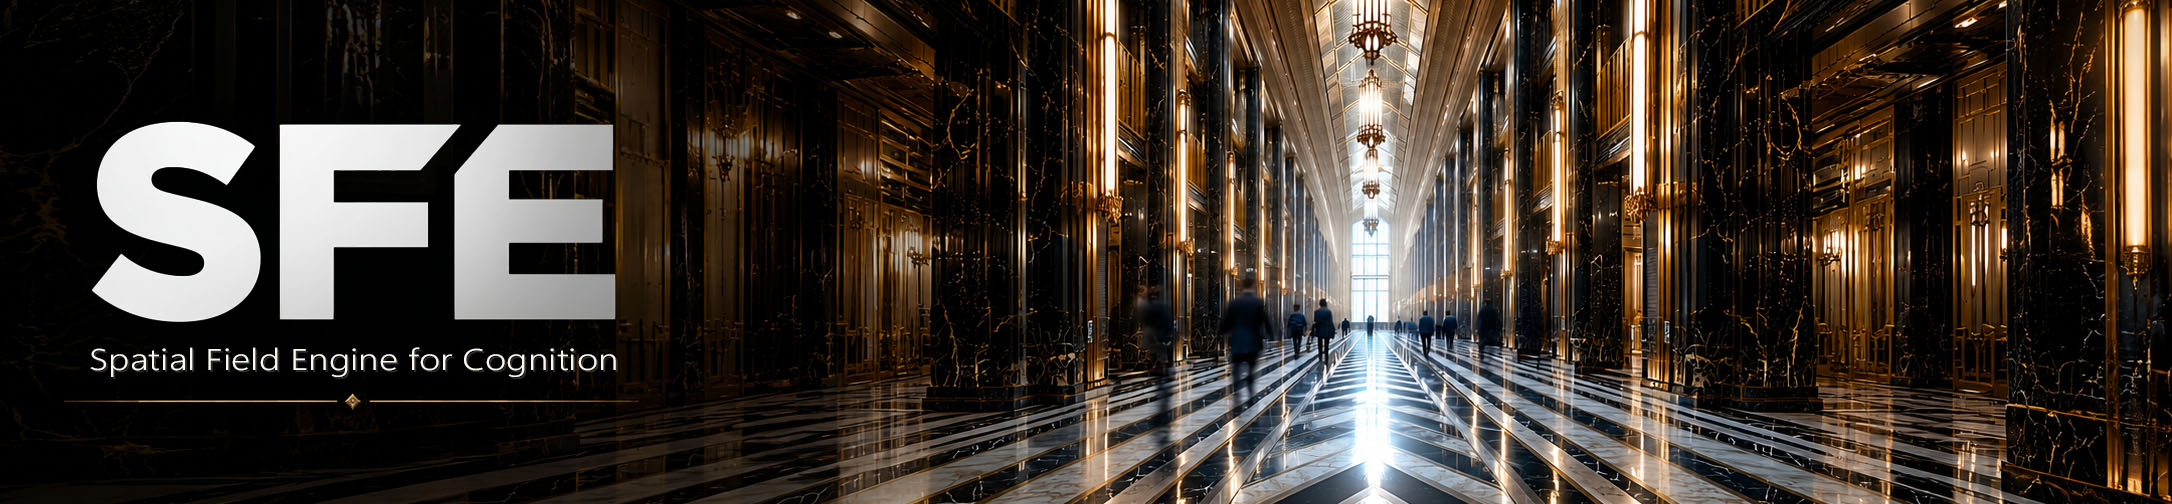
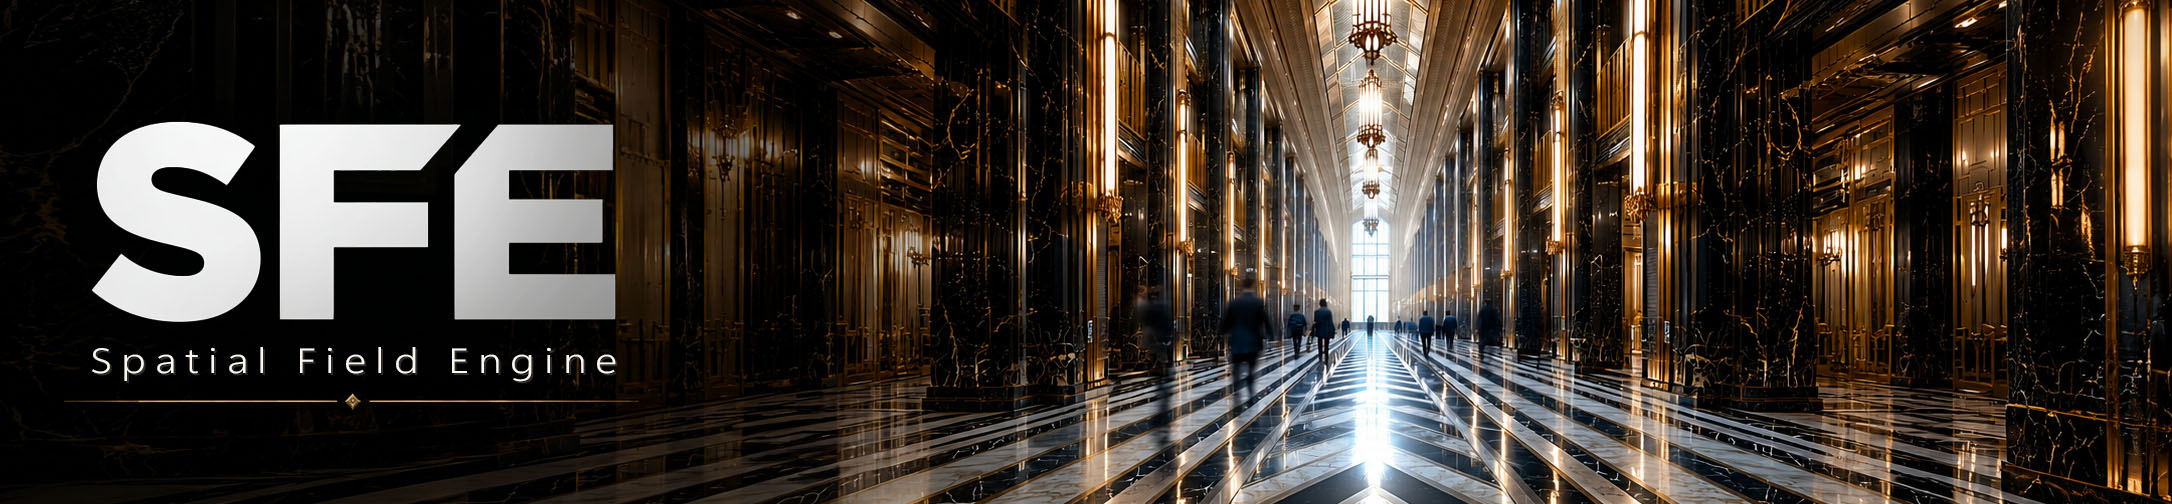
Polish public README presentation

Changed region(s): [[0.0308, 0.6845, 0.3085, 0.7738]]

diff --git a/tests/test_public_docs.py b/tests/test_public_docs.py
@@ -8,13 +8,13 @@ PROJECT_ROOT = Path(__file__).resolve().parents[1]
 DOCS_ROOT = PROJECT_ROOT / "docs"
 
 PUBLIC_DOCS = {
-    "ARCHITECTURE.md",
-    "BENCHMARKS.md",
-    "CONFIGURATION.md",
-    "FAQ.md",
-    "INDEX.md",
-    "INSTALL.md",
-    "USAGE.md",
+    "10_INDEX.md",
+    "20_INSTALL.md",
+    "30_USAGE.md",
+    "40_CONFIGURATION.md",
+    "50_ARCHITECTURE.md",
+    "60_BENCHMARKS.md",
+    "70_FAQ.md",
 }
 
 PUBLIC_TEXT_FILES = (

diff --git a/tests/test_sfe_tui.py b/tests/test_sfe_tui.py
@@ -8499,13 +8499,13 @@ def test_dry_run_renders_router_preview_metadata_safely(tmp_path) -> None:
 
 
 def test_public_docs_cover_current_tui_runtime_and_safety_path() -> None:
-    index = (PROJECT_ROOT / "docs" / "INDEX.md").read_text(encoding="utf-8")
-    install = (PROJECT_ROOT / "docs" / "INSTALL.md").read_text(encoding="utf-8")
-    usage = (PROJECT_ROOT / "docs" / "USAGE.md").read_text(encoding="utf-8")
-    architecture = (PROJECT_ROOT / "docs" / "ARCHITECTURE.md").read_text(
+    index = (PROJECT_ROOT / "docs" / "10_INDEX.md").read_text(encoding="utf-8")
+    install = (PROJECT_ROOT / "docs" / "20_INSTALL.md").read_text(encoding="utf-8")
+    usage = (PROJECT_ROOT / "docs" / "30_USAGE.md").read_text(encoding="utf-8")
+    architecture = (PROJECT_ROOT / "docs" / "50_ARCHITECTURE.md").read_text(
         encoding="utf-8"
     )
-    benchmarks = (PROJECT_ROOT / "docs" / "BENCHMARKS.md").read_text(
+    benchmarks = (PROJECT_ROOT / "docs" / "60_BENCHMARKS.md").read_text(
         encoding="utf-8"
     )
     combined_public_docs = "\n".join((index, install, usage, architecture, benchmarks))

diff --git a/README.md b/README.md
@@ -1,17 +1,35 @@
-# Spatial Field Engine
+<p align="center">
+  <img src="assets/202606152310_github.jpg" alt="Spatial Field Engine">
+</p>
 
-![Spatial Field Engine](assets/202606152310_github.jpg)
+<p align="center">
+  <a href="LICENSE"><img src="https://img.shields.io/badge/License-Apache%202.0-blue.svg" alt="License: Apache 2.0"></a>
+  <a href="pyproject.toml"><img src="https://img.shields.io/badge/Python-3.10%2B-blue.svg" alt="Python 3.10+"></a>
+  <a href="docs/30_USAGE.md"><img src="https://img.shields.io/badge/Interface-TUI%20%2B%20MCP-6f42c1.svg" alt="Interface: TUI + MCP"></a>
+</p>
 
-[![License: Apache 2.0](https://img.shields.io/badge/License-Apache%202.0-blue.svg)](LICENSE)
-[![Python 3.10+](https://img.shields.io/badge/Python-3.10%2B-blue.svg)](pyproject.toml)
-[![Interface: TUI + MCP](https://img.shields.io/badge/Interface-TUI%20%2B%20MCP-6f42c1.svg)](docs/USAGE.md)
+<p align="center">
+  <a href="docs/40_CONFIGURATION.md"><img src="https://img.shields.io/badge/Provider-OpenAI-412991?style=flat-square" alt="Provider: OpenAI"></a>
+  <a href="docs/40_CONFIGURATION.md"><img src="https://img.shields.io/badge/Provider-Anthropic-D97757?style=flat-square" alt="Provider: Anthropic"></a>
+  <a href="docs/40_CONFIGURATION.md"><img src="https://img.shields.io/badge/Provider-Google-4285F4?style=flat-square" alt="Provider: Google"></a>
+  <a href="docs/40_CONFIGURATION.md"><img src="https://img.shields.io/badge/Provider-Alibaba-FF6A00?style=flat-square" alt="Provider: Alibaba"></a>
+  <a href="docs/40_CONFIGURATION.md"><img src="https://img.shields.io/badge/Provider-Ollama-111111?style=flat-square" alt="Provider: Ollama"></a>
+  <a href="docs/40_CONFIGURATION.md"><img src="https://img.shields.io/badge/Provider-Lemonade-F59E0B?style=flat-square" alt="Provider: Lemonade"></a>
+  <a href="docs/40_CONFIGURATION.md"><img src="https://img.shields.io/badge/Provider-CodexCLI-334155?style=flat-square" alt="Provider: CodexCLI"></a>
+</p>
 
-Spatial Field Engine is a context-routing layer for safer agentic coding
-workflows. It selects relevant project context, routes execution modes, and
-isolates filesystem changes in Git worktrees before promotion.
+SFE is a context-routing layer for safer agentic coding workflows. It selects
+relevant project context, routes execution modes, and isolates filesystem
+changes in Git worktrees before promotion.
 
-SFE is for developers who want an agentic coding workflow with clearer context
-selection and stricter filesystem boundaries than a direct model call.
+Instead of sending broad project context into every coding call, SFE narrows the
+executor prompt to the files and constraints that matter for the current task.
+On selected benchmark fixtures, SFE reduced executor input tokens by up to 90%
+compared with full-context baselines.
+
+Second, output-token cost can be lowered by delegating execution to a cheaper
+or more specialized model once the context is already narrow. Savings depend on
+task shape, provider behavior, and model choices.
 
 ## What SFE Does
 
@@ -136,7 +154,7 @@ SFE_PROVIDER_EXECUTOR=anthropic
 For Aider-backed writes, set `SFE_AIDER_MODEL` if your executor model name is
 not already a valid Aider/LiteLLM model name.
 
-See [Configuration](docs/CONFIGURATION.md) for provider variables and local
+See [Configuration](docs/40_CONFIGURATION.md) for provider variables and local
 provider notes.
 
 ## Benchmarks
@@ -148,17 +166,17 @@ fixed cost.
 
 These results are not a production guarantee, not a universal token-savings
 claim, and not evidence that SFE should wrap every prompt. See
-[Benchmarks](docs/BENCHMARKS.md) for the cautious summary.
+[Benchmarks](docs/60_BENCHMARKS.md) for the cautious summary.
 
 ## Documentation
 
-- [Install](docs/INSTALL.md)
-- [Usage](docs/USAGE.md)
-- [Configuration](docs/CONFIGURATION.md)
-- [Architecture](docs/ARCHITECTURE.md)
-- [Benchmarks](docs/BENCHMARKS.md)
-- [FAQ](docs/FAQ.md)
-- [Documentation index](docs/INDEX.md)
+- [Install](docs/20_INSTALL.md)
+- [Usage](docs/30_USAGE.md)
+- [Configuration](docs/40_CONFIGURATION.md)
+- [Architecture](docs/50_ARCHITECTURE.md)
+- [Benchmarks](docs/60_BENCHMARKS.md)
+- [FAQ](docs/70_FAQ.md)
+- [Documentation index](docs/10_INDEX.md)
 
 ## Current Status And Limitations
 